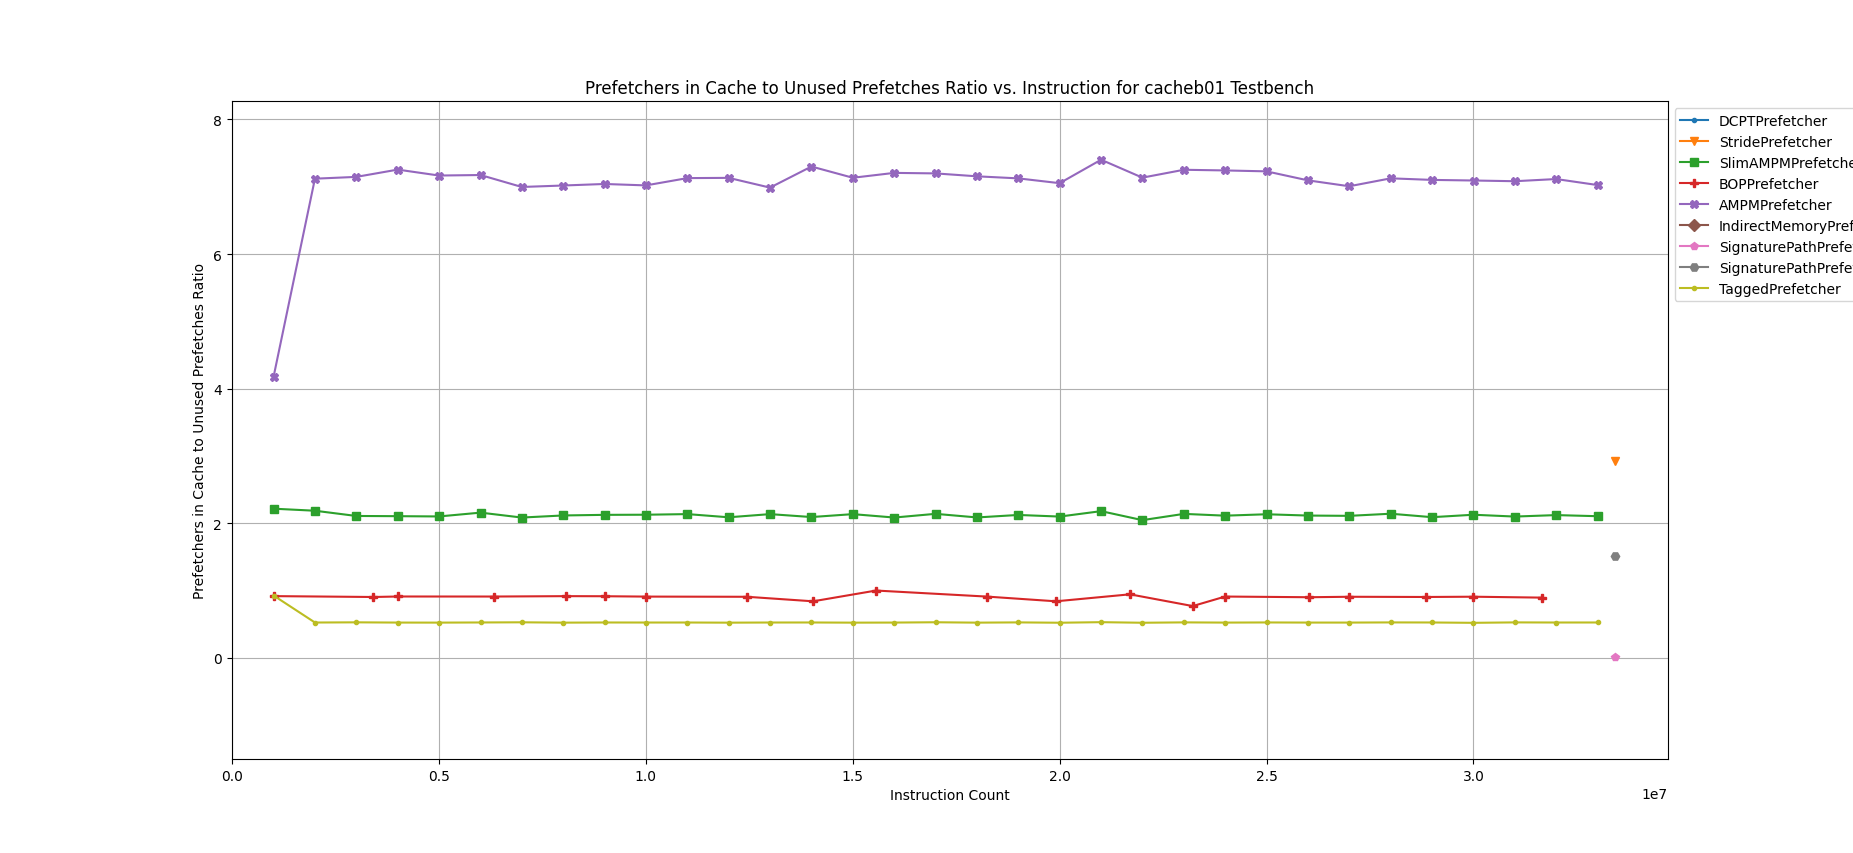
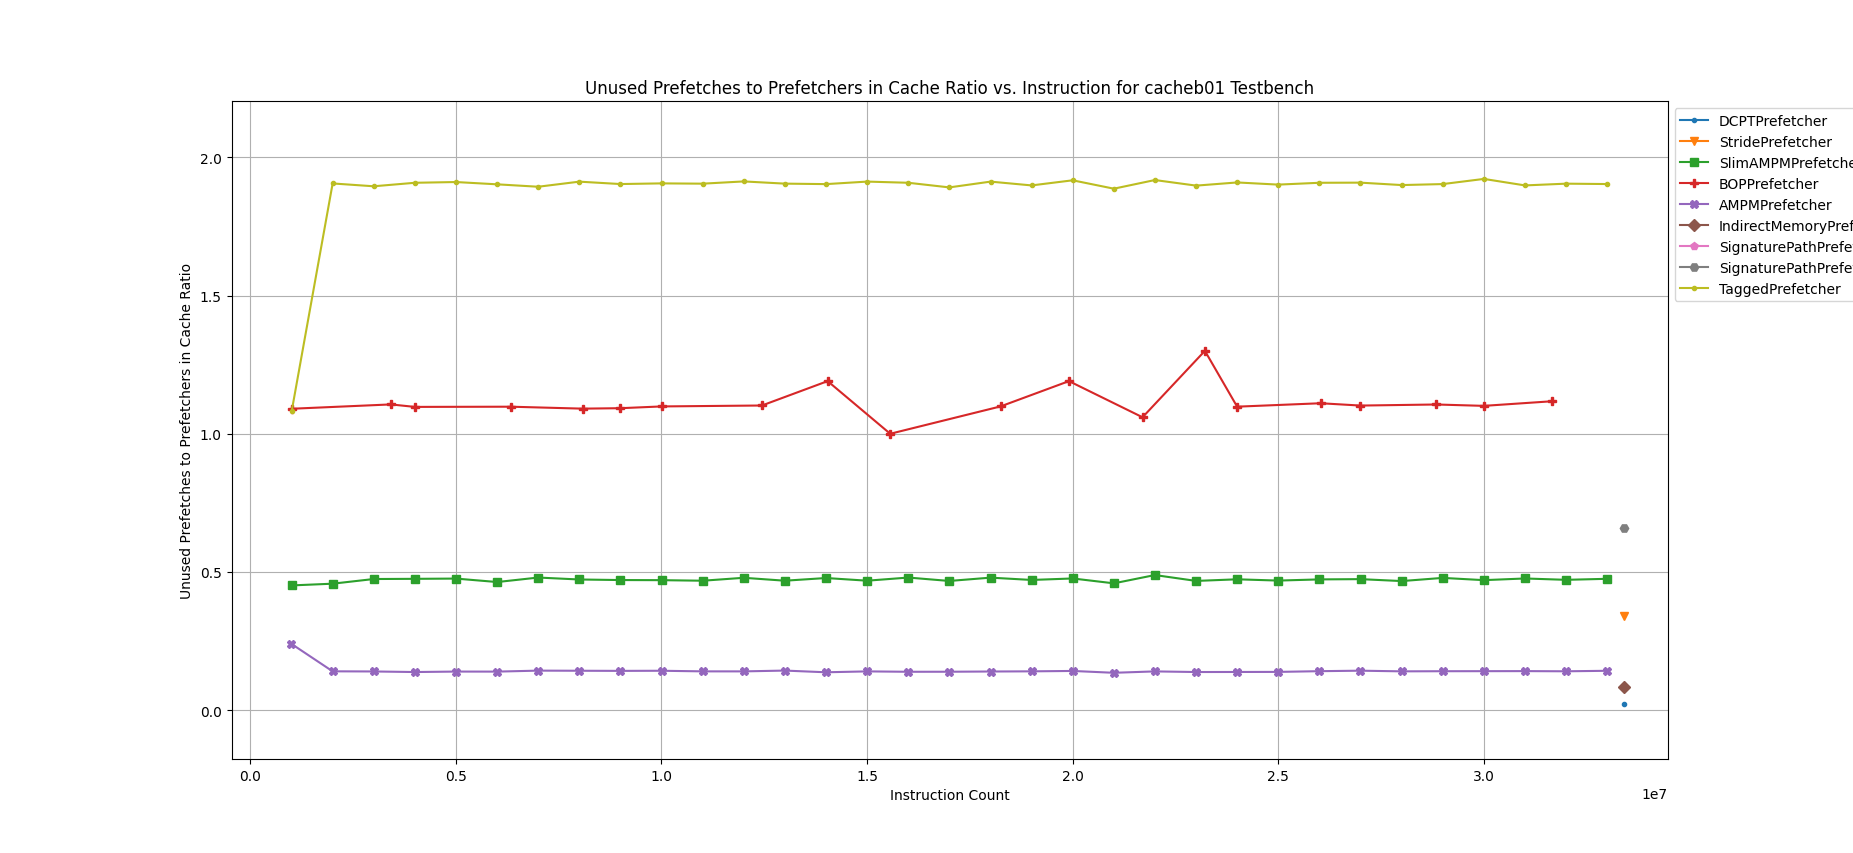
More graphs

diff --git a/project/graphgenerator.py b/project/graphgenerator.py
@@ -40,9 +40,9 @@ def array_thinnerX(big_list, NUM):
 def get_metric(metric_num):
     titles = ("Prefetches Issued", "Prefetchers in Cache", "Overall Misses", "Overall Hits",
               "Overall Accesses", "Unused Prefetches", "Overall Misses to Overall Accesses Ratio", "Overall Hits to Overall Accesses Ratio",
-              "Unused Prefetches to Prefetches Issued Ratio", "Prefetchers in Cache to Unused Prefetches Ratio")
+              "Unused Prefetches to Prefetches Issued Ratio", "Unused Prefetches to Prefetchers in Cache Ratio", "Overall Hits to Overall Misses Ratio", "Prefetchers in Cache to Prefetches Issued Ratio")
     metrics = ("pfIssued", "pfInCache", "overallMisses", "overallHits", "overallAccesses", "unusedPrefetches",
-               "overallMisses overallAccesses", "overallHits overallAccesses", "unusedPrefetches pfIssued", "pfInCache unusedPrefetches")
+               "overallMisses overallAccesses", "overallHits overallAccesses", "unusedPrefetches pfIssued", "unusedPrefetches pfInCache", "overallHits overallMisses", "pfInCache pfIssued")
     return (titles[metric_num - 1], metrics[metric_num - 1])
 
 
@@ -130,8 +130,8 @@ def parse_input(args):
 def main():
     parser = argparse.ArgumentParser(
         prog='Graph Generator')
-    parser.add_argument('-metric', required=True, type=int, choices=[1, 2, 3, 4, 5, 6, 7, 8, 9, 10],
-                        help="statistic/metric to run-> 1:pfIssued, 2:pfInCache, 3:overallMisses, 4:overallHits, 5:overallAccesses, 6:unusedPrefetches, 7:overallMisses/overallAccesses, 8:overallHits/overallAccesses, 9:unusedPrefetches/pfIssued, 10:pfInCache/unusedPrefetches",)
+    parser.add_argument('-metric', required=True, type=int, choices=[1, 2, 3, 4, 5, 6, 7, 8, 9, 10, 11, 12],
+                        help="statistic/metric to run-> 1:pfIssued, 2:pfInCache, 3:overallMisses, 4:overallHits, 5:overallAccesses, 6:unusedPrefetches, 7:overallMisses/overallAccesses, 8:overallHits/overallAccesses, 9:unusedPrefetches/pfIssued, 10:unusedPrefetches/pfInCache, 11:overallHits/overallMisses, 12:pfInCache/pfIssued")
     parser.add_argument('-workload', required=True, choices=[
                         "a2time01", "bitmnp01", "cacheb01", "mcf", "libquantum"], help="testbench to run")
     parser.add_argument('-xmin', required=False,
